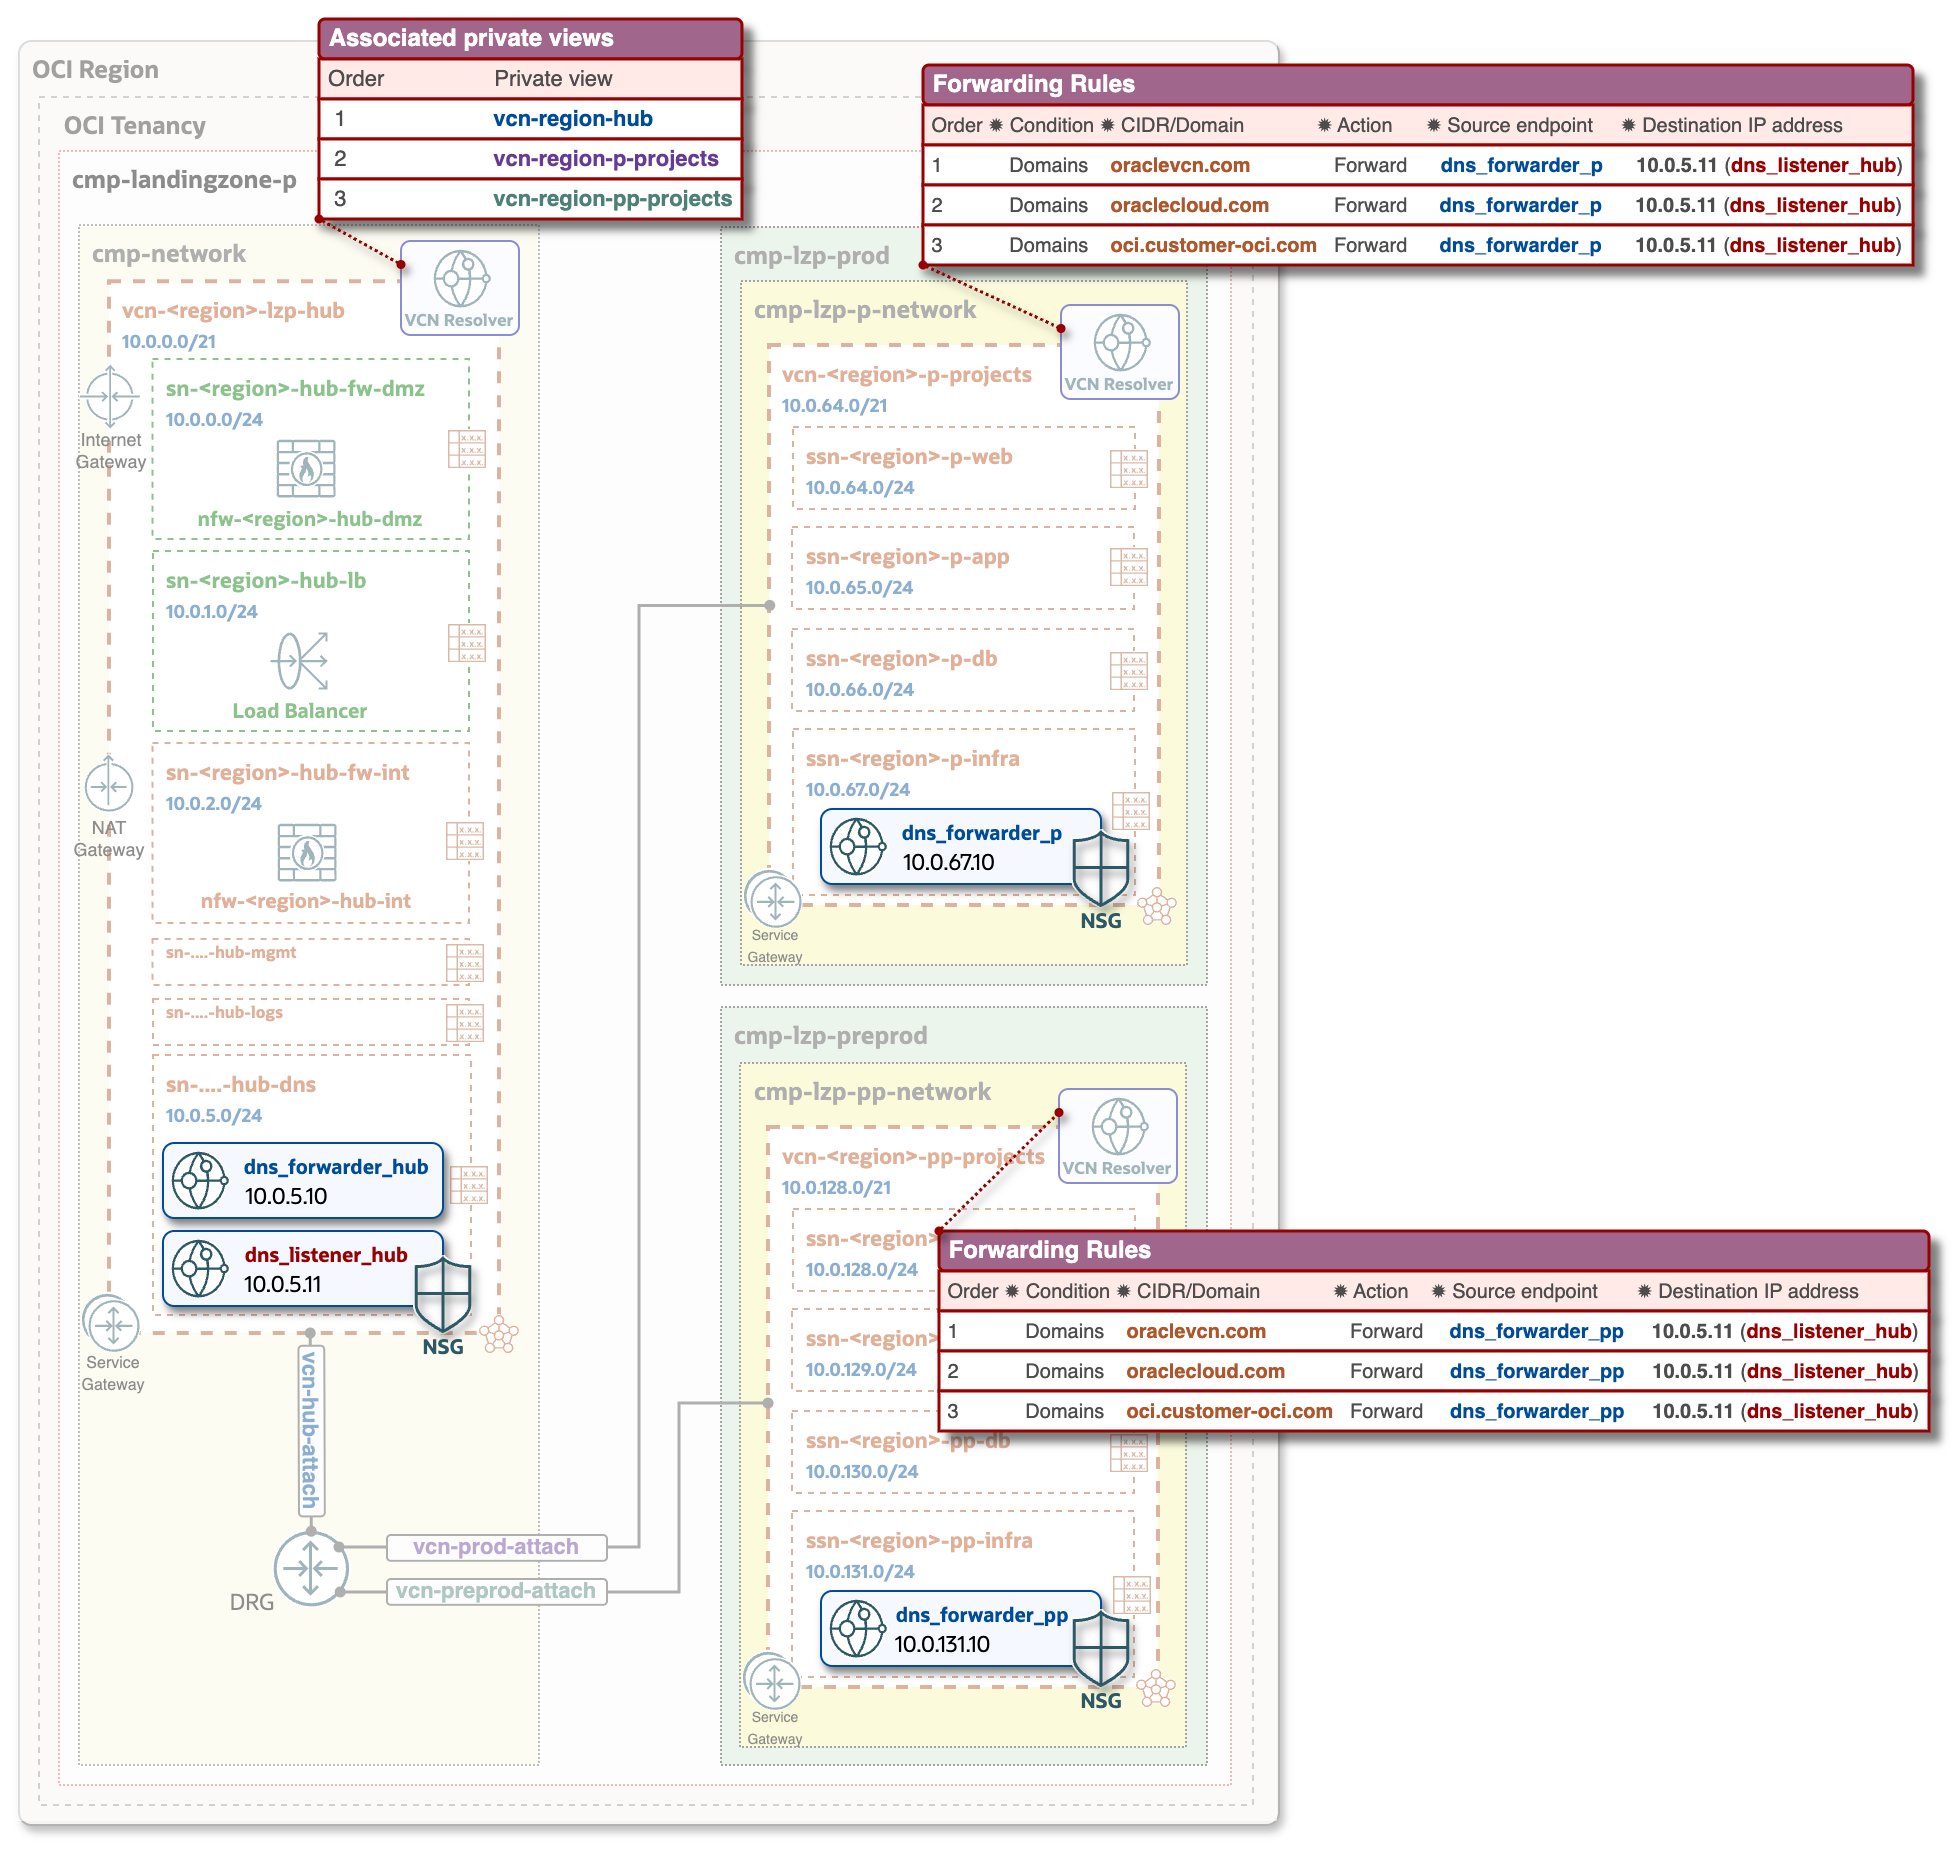
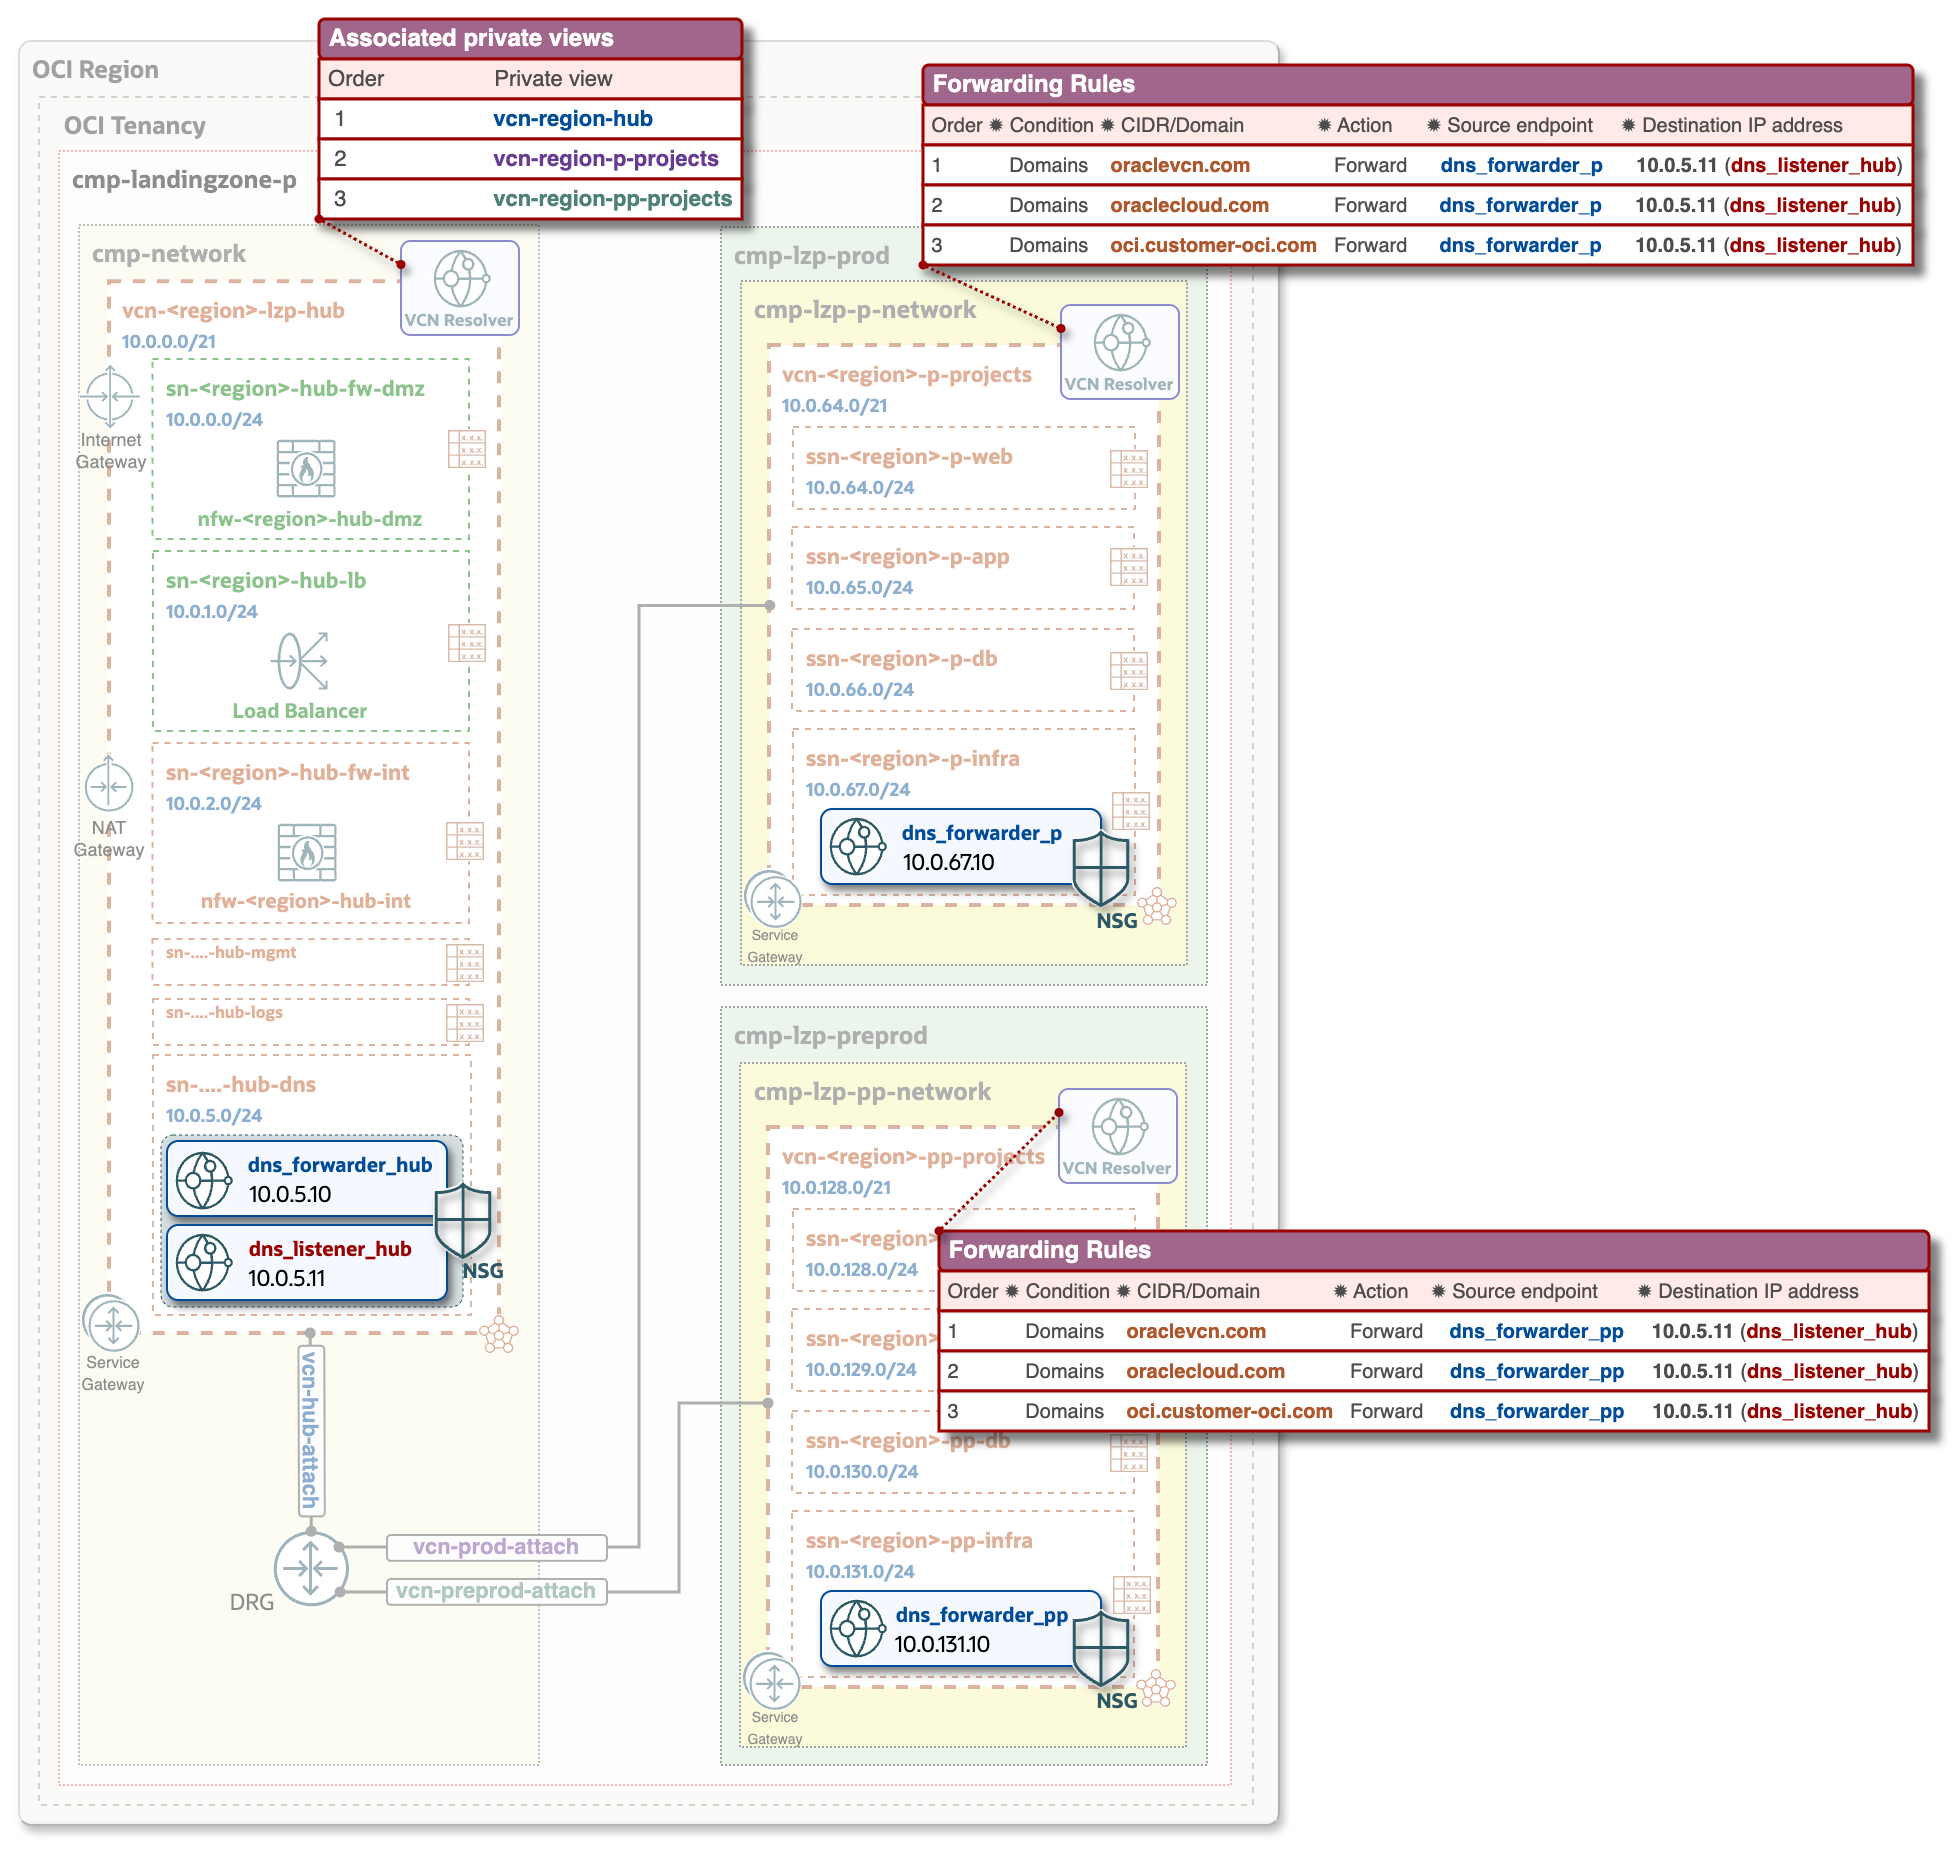
updated design, json and deployment guide

Changed region(s): [[0.0622, 0.6156, 0.2801, 0.7387], [0.5602, 0.8925, 0.5913, 0.9233], [0.5602, 0.4924, 0.5913, 0.5232]]

diff --git a/addons/oci-private-dns/Deployment.md b/addons/oci-private-dns/Deployment.md
@@ -13,11 +13,11 @@ The components highlighted in the architecture diagram below will be implemented
 
 **Step 1**. Ensure that the [OCI Open Landing Zone](https://github.com/oci-landing-zones/oci-landing-zone-operating-entities/blob/master/blueprints/one-oe/runtime/one-stack/readme.md) is deployed, as it serves as the foundation for Private DNS configuration.
 
-**Step 2**. Update the Network Configuration json to include the objects shown below. You can also refer to and use the [Private DNS Network json template](../../blueprints/one-oe/runtime/one-stack/oci_open_lz_hub_a_network_light_post_DNS.auto.tfvars.json) for the Hub A model (light version, without OCI Network Firewalls), which includes all the necessary json objects for Private DNS configuration.
+**Step 2**. Update the Network Configuration JSON to include the blocks shown below. You can also refer to and use the [Private DNS Network JSON template](../../blueprints/one-oe/runtime/one-stack/oci_open_lz_hub_a_network_light_post_DNS.auto.tfvars.json) for the Hub A model (light version, without OCI Network Firewalls), which includes all the necessary JSON blocks for Private DNS configuration.
 
-[Private DNS Network json template](../../blueprints/one-oe/runtime/one-stack/oci_open_lz_hub_a_network_light_post_DNS.auto.tfvars.json) consist of the following six additional objects, which are added into Network Configuration:
+[Private DNS Network JSON template](../../blueprints/one-oe/runtime/one-stack/oci_open_lz_hub_a_network_light_post_DNS.auto.tfvars.json) consist of the following six additional blocks, which are added into Network Configuration:
 
-- **1st object**: Network Security Group (NSG) configuration in the **Hub VCN**, attached to the Hub DNS Listener. This configuration enables the necessary Ingress and Egress DNS traffic flow with Spoke DNS Forwarders.
+- **1st block**: Network Security Group (NSG) configuration in the **Hub VCN**, attached to the Hub DNS Listener and Forwarder. This configuration allows the Hub Listener to establish the necessary Ingress and Egress DNS traffic flow with the Spoke DNS Forwarders. Although the NSG is also associated with the Hub DNS Forwarder (defined in the **2nd block**), it does not include any specific rules for it. Any additional network access (e.g., access to on-premises DNS servers) should be configured either within this NSG or in a dedicated one.
 
 
                             "NSG-FRA-LZP-HUB-DNS-KEY": {
@@ -34,9 +34,9 @@ The components highlighted in the architecture diagram below will be implemented
                                         ...
                             }
 
-Note: Full configuration of the NSGs are available in the [Private DNS Network json template](../../blueprints/one-oe/runtime/one-stack/oci_open_lz_hub_a_network_light_post_DNS.auto.tfvars.json)
+Note: Full configuration of the NSGs are available in the [Private DNS Network JSON template](../../blueprints/one-oe/runtime/one-stack/oci_open_lz_hub_a_network_light_post_DNS.auto.tfvars.json)
 
-- **2nd object**: Configuration of the DNS Forwarder and Listener, as well as the Private views in the **Hub VCN**.<br>
+- **2nd block**: Configuration of the DNS Forwarder and Listener, as well as the Private views in the **Hub VCN**.<br>
   The OCIDs for the Hub, Prod, and PreProd private views should be obtained from the OCI Console or CLI and specified as values for `"existing_view_id"`.<br>
 
                         "dns_resolver": {
@@ -60,7 +60,7 @@ Note: Full configuration of the NSGs are available in the [Private DNS Network j
                                     "forwarding_address": "10.0.5.10",
                                     "name"              : "dns_forwarder_fra_hub",
                                     "subnet"            : "SN-FRA-LZP-HUB-DNS",
-                                    "nsg"               : null
+                                    "nsg"               : ["NSG-FRA-LZP-HUB-DNS-KEY"]
                                     },
                                 "RESOLVER_HUB_ENDPOINT_LISTENER_1" : {
                                     "enpoint_type"     : "VNIC",
@@ -76,7 +76,7 @@ Note: Full configuration of the NSGs are available in the [Private DNS Network j
 
   The OCIDs for the Private views in the OCI console can be found under **Networking -> DNS management -> Private views -> Private view information**.
 
-- **3rd object**: NSG configuration in the **Prod Spoke VCN**, attached to the Prod DNS Forwarder. This enables the required Ingress and Egress DNS traffic flow to the Hub DNS Listener.
+- **3rd block**: NSG configuration in the **Prod Spoke VCN**, attached to the Prod DNS Forwarder. This enables the required Ingress and Egress DNS traffic flow to the Hub DNS Listener.
 
                             "NSG-LZP-P-PROJECTS-DNS-KEY": {
                                 "display_name": "nsg-lzp-p-projects-dns",
@@ -93,7 +93,7 @@ Note: Full configuration of the NSGs are available in the [Private DNS Network j
                             }
 
 
-- **4th object**: DNS resolver configuration for the Forwarder and Forwarding Rules in **Prod Spoke VCN**. 
+- **4th block**: DNS resolver configuration for the Forwarder and Forwarding Rules in **Prod Spoke VCN**. 
 
                         "dns_resolver": {
                             "display_name": "vcn-fra-lzp-p-projects",
@@ -131,7 +131,7 @@ Note: Full configuration of the NSGs are available in the [Private DNS Network j
                             }
                         }
                     
-- **5th object**: NSG configuration in the **PreProd Spoke VCN**, attached to the PreProd DNS Forwarder.
+- **5th block**: NSG configuration in the **PreProd Spoke VCN**, attached to the PreProd DNS Forwarder.
 
                             "NSG-LZP-PP-PROJECTS-DNS-KEY": {
                                 "display_name": "nsg-lzp-pp-projects-dns",
@@ -148,7 +148,7 @@ Note: Full configuration of the NSGs are available in the [Private DNS Network j
                             }
 
 
-- **6th object**: DNS resolver configuration for the Forwarder and Forwarding Rules in **PreProd Spoke VCN**. 
+- **6th block**: DNS resolver configuration for the Forwarder and Forwarding Rules in **PreProd Spoke VCN**. 
 
                         "dns_resolver": {
                             "display_name": "vcn-fra-lzp-pp-projects",
@@ -171,13 +171,14 @@ Note: Full configuration of the NSGs are available in the [Private DNS Network j
 
 &nbsp;
 
-To summarize: Objects 1, 3, and 5 are the NSG configurations for the Hub, Prod, and PreProd respectively, while objects 2, 4, and 6 are the corresponding DNS resolver configurations.
+To summarize: Blocks 1, 3, and 5 are the NSG configurations for the Hub, Prod, and PreProd respectively, while blocks 2, 4, and 6 are the corresponding DNS resolver configurations.
 
 Note: Ensure that all required values, including IP addresses, OCIDs, naming conventions, are adjusted to match your specific deployment.
 
 &nbsp;
 
-**Step 3**. Run the stack with the updated Network Configuration json, which now includes the Private DNS objects.
+**Step 3**. Run the stack with the updated Network Configuration JSON, which now includes the Private DNS blocks.<br>
+For post-deployment steps, you can follow a similar sequence as outlined in [OCI Open LZ: POST DEPLOYMENT – STEP #2](https://github.com/oci-landing-zones/oci-landing-zone-operating-entities/blob/master/blueprints/one-oe/runtime/one-stack/readme.md).
 
 
 &nbsp; 
